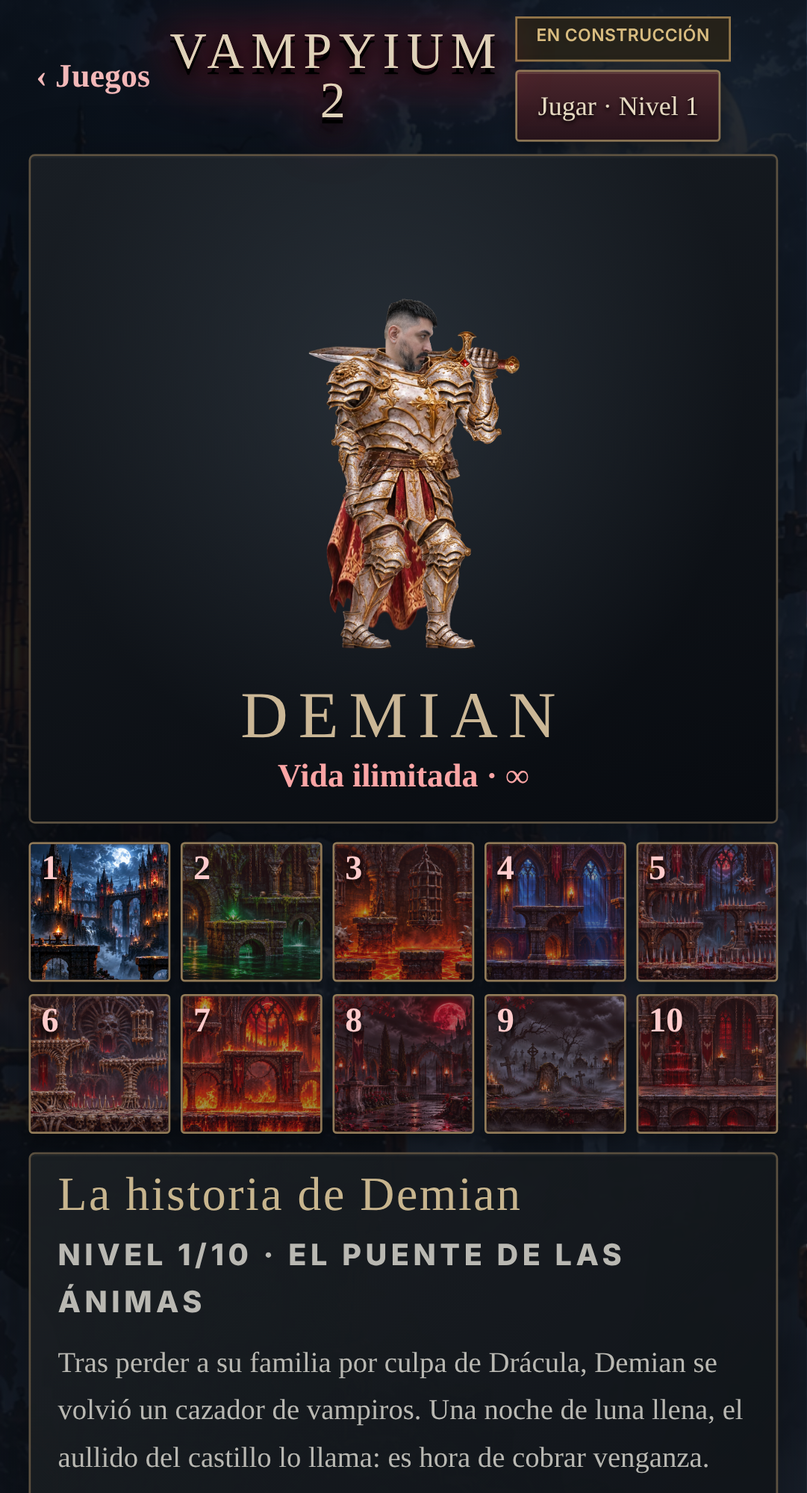
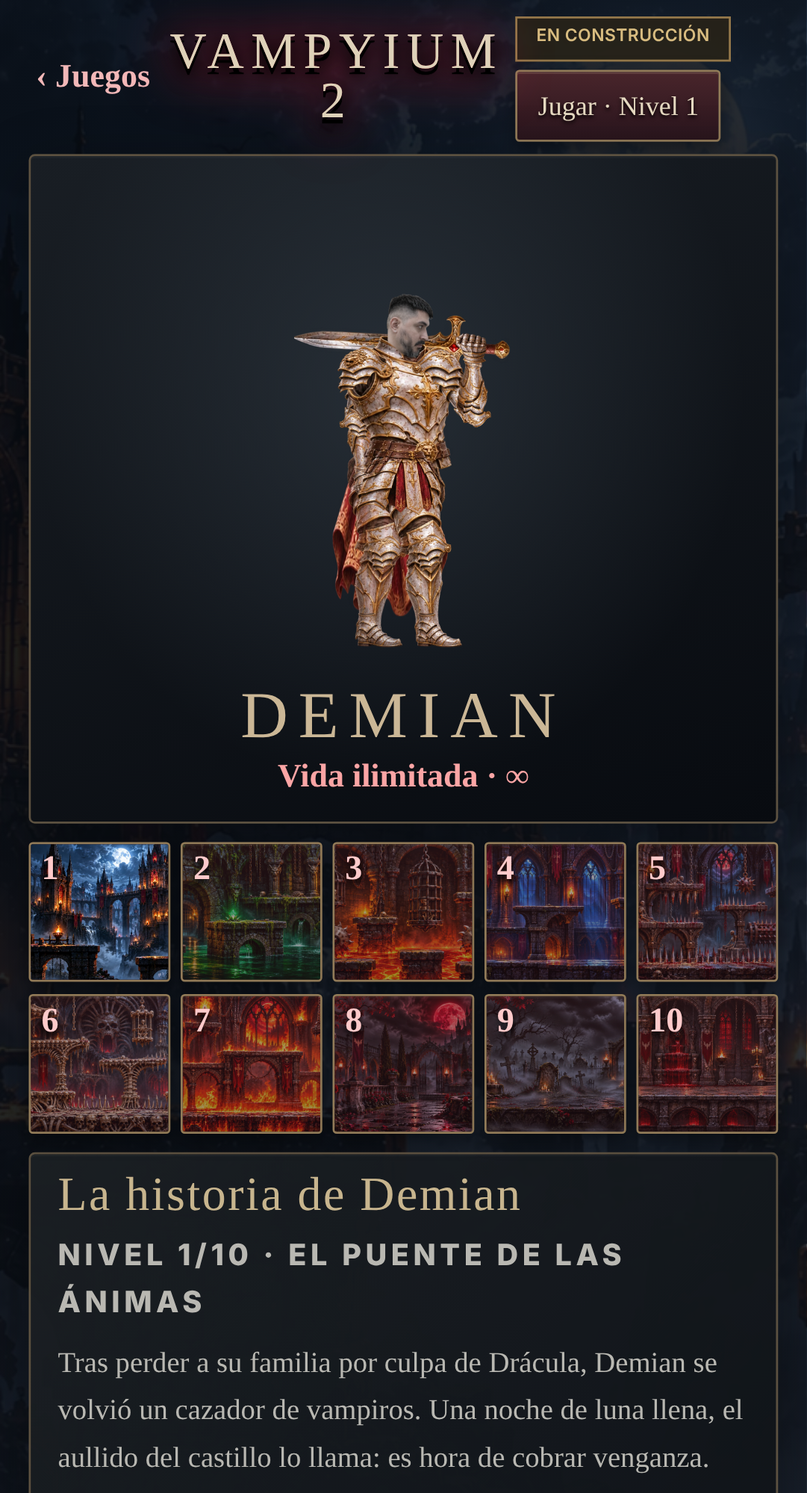
Vampyium 2: Demian con proporciones de vampiro e impulso propio en cada ataque
- Demian: mismas proporciones y altura que el vampiro común; cabeza más chica y desaturada
- Todos parados con las piernas extendidas; carga y golpe con impulso según el ataque, sin saltos
- Gigante: dos brazos arriba y golpe hacia abajo
- Mago: báculo quieto, apunta a Demian y la bola sale de la mano
- Martillo: agarrado con las dos manos y golpe hasta el piso
- Guerrero: escudo fijo contra el cuerpo

Claude-Session: https://claude.ai/code/session_01WPvz5PaYJXGqapsEakQuyK

Changed region(s): [[0.3663, 0.1861, 0.6411, 0.4342]]

diff --git a/src/features/games/vampyium2Sprites.ts b/src/features/games/vampyium2Sprites.ts
@@ -147,9 +147,9 @@ function limb(ctx: CanvasRenderingContext2D, id: number, start: Pt, end: Pt, wid
 }
 type WeaponPainter = (hand: Pt, angle: number) => void;
 // The photo head (crown to neck stub), a little larger than the old painted head but in proportion with the body.
-export const DEMIAN_FACE = { h: .41, w: .41 * 380 / 535 };
+export const DEMIAN_FACE = { h: .35, w: .35 * 380 / 535 };
 // Demian is drawn as tall as a normal vampire (the vampires' art is 12% bigger than the hunter's).
-export const DEMIAN_SCALE = 1.07;
+export const DEMIAN_SCALE = 1.095;
 
 // Input-driven articulated poses keep hands, weapon and shoulder plates attached throughout each action.
 export function drawRealisticHunter(ctx: CanvasRenderingContext2D, p: Player, g: Game, pose: Pose, t: number, paintWeapon: WeaponPainter) {
@@ -162,10 +162,10 @@ export function drawRealisticHunter(ctx: CanvasRenderingContext2D, p: Player, g:
   if (p.special?.kind === 'dash') dashTrail(ctx, p.special.t / .24);
   const walkProfile = p.onGround && Math.abs(p.vx) > .15 && p.attackT < 0 && !p.special && !(p.jumpPrep && p.jumpPrep > 0);
   const profile = walkProfile ? Math.min(1, Math.abs(p.vx) / 1.4) : 0;
-  const hipSpread = .09 - profile * .055;
-  const hip: Pt = [pose.lean * .08 + (pose.hipOffset?.[0] ?? 0), -.92 + pose.bob * (walkProfile ? 1 : .45) + pose.crouch * .3 + (pose.hipOffset?.[1] ?? 0) + (p.landT > 0 ? p.landT * .32 : 0)];
-  const neck: Pt = [hip[0] + Math.sin(pose.lean) * .61, hip[1] - Math.cos(pose.lean) * .61];
-  const shoulders: Pt[] = [-1, 1].map(side => { const x = side * (.25 - profile * .19); return [neck[0] + x * Math.cos(pose.lean) - .09 * Math.sin(pose.lean),
+  const hipSpread = .075 - profile * .045;
+  const hip: Pt = [pose.lean * .08 + (pose.hipOffset?.[0] ?? 0), -.965 + pose.bob * (walkProfile ? 1 : .45) + pose.crouch * .3 + (pose.hipOffset?.[1] ?? 0) + (p.landT > 0 ? p.landT * .32 : 0)];
+  const neck: Pt = [hip[0] + Math.sin(pose.lean) * .62, hip[1] - Math.cos(pose.lean) * .62];
+  const shoulders: Pt[] = [-1, 1].map(side => { const x = side * (.2 - profile * .15); return [neck[0] + x * Math.cos(pose.lean) - .09 * Math.sin(pose.lean),
     neck[1] + x * Math.sin(pose.lean) + .09 * Math.cos(pose.lean)]; });
   const cycle = humanWalk(p.walkT * 7 / 2.4, Math.abs(p.vx), .88 * VAMP_VISUAL_SCALE, true);
   const feet: Pt[] = [], knees: Pt[] = [];
@@ -187,7 +187,7 @@ export function drawRealisticHunter(ctx: CanvasRenderingContext2D, p: Player, g:
   if (p.onGround && (Math.abs(p.vx) < .15 || (p.jumpPrep ?? 0) > 0) && p.attackT < 0 && !p.special) {
     for (let i = 0; i < 2; i++) {
       const origin: Pt = [hip[0] + (i ? .09 : -.09), hip[1] + .03];
-      feet[i] = [hip[0] + (i ? .40 : -.35), -.04];
+      feet[i] = [hip[0] + (i ? .17 : -.15), -.04]; // standing: legs straight under the hips
       const [angle] = legAngles(origin, feet[i], .46, .45);
       knees[i] = add(origin, angle, .46);
     }
@@ -209,28 +209,28 @@ export function drawRealisticHunter(ctx: CanvasRenderingContext2D, p: Player, g:
   const wind = Math.min(.25, Math.abs(p.vx) * .025) + (p.onGround ? 0 : .12);
   ctx.save(); ctx.translate(neck[0] - .08, neck[1] + .025); ctx.rotate(.03 + wind + Math.sin(rt * 5) * .025);
   // The upper gathering is at 45% of this cutout, attached at the collar/upper back.
-  drawAsset(ctx, 'hunter', 10, -(.7 + wind) * .45, -.035, .7 + wind, 1.48); ctx.restore();
+  drawAsset(ctx, 'hunter', 10, -(.62 + wind) * .45, -.035, .62 + wind, 1.45); ctx.restore();
   const leg = (i: number) => {
     ctx.save(); if (!i) ctx.globalAlpha *= .83;
-    limb(ctx, 6, [hip[0] + (i ? hipSpread : -hipSpread), hip[1]], knees[i], .25);
-    limb(ctx, 7, knees[i], feet[i], .205);
+    limb(ctx, 6, [hip[0] + (i ? hipSpread : -hipSpread), hip[1]], knees[i], .215);
+    limb(ctx, 7, knees[i], feet[i], .18);
     const bootAngle = moving && !pose.feet ? cycle.fa[i] : pose.feet || p.onGround && Math.abs(p.vx) < .15 && p.attackT < 0 ? 0 : -(pose.legs[i][0] - pose.legs[i][1]) * .3;
     ctx.save(); ctx.translate(...feet[i]); ctx.rotate(bootAngle);
-    drawAsset(ctx, 'hunter', 8, -.08, -.12, .27, .21); ctx.restore();
+    drawAsset(ctx, 'hunter', 8, -.07, -.105, .24, .185); ctx.restore();
     jointArmor(ctx, knees[i], [hip[0] + (i ? hipSpread : -hipSpread), hip[1]], feet[i], .2, 'gilt', [1, 0]);
     ctx.restore();
   };
   const arm = (i: number, layer: 'upper' | 'forearm' | 'all') => {
-    const [a, b] = pose.arms[i], elbow = add(shoulders[i], a, .34), hand = add(elbow, a + b, .32);
+    const [a, b] = pose.arms[i], elbow = add(shoulders[i], a, .31), hand = add(elbow, a + b, .30);
     const grip = add(hand, a + b, .035);
     ctx.save(); if (walkProfile ? cycle.arm[i] < 0 : !i) ctx.globalAlpha *= .88;
     if (layer !== 'forearm') {
-      limb(ctx, 3, shoulders[i], elbow, .245);
+      limb(ctx, 3, shoulders[i], elbow, .205);
       // Separate anatomical left/right plates: dome above, overlapping lames towards the elbow.
-      part(ctx, i ? 16 : 9, [shoulders[i][0], shoulders[i][1] + .025], .31, .29, -a * .12);
+      part(ctx, i ? 16 : 9, [shoulders[i][0], shoulders[i][1] + .025], .27, .25, -a * .12);
     }
     if (layer !== 'upper') {
-      limb(ctx, 4, elbow, hand, .20);
+      limb(ctx, 4, elbow, hand, .17);
       jointArmor(ctx, elbow, shoulders[i], hand, .16, 'gilt', [-1, 0]);
       const bladeGrip = i === 1 && ['sword', 'firesword', 'violet', 'bone'].includes(p.attackT >= 0 ? p.attackWeapon : g.weapon);
       const weaponAngle = a + b + pose.blade;
@@ -239,7 +239,7 @@ export function drawRealisticHunter(ctx: CanvasRenderingContext2D, p: Player, g:
       // The handle passes behind all curled fingers; the wrist bends independently of the blade.
       const thrustGrip = bladeGrip && Math.abs(Math.cos(Math.PI / 2 - weaponAngle)) > .8 && p.attackT >= 0;
       const handId = !i && pose.relaxedHand ? 19 : bladeGrip && !thrustGrip ? 17 : 5;
-      part(ctx, handId, grip, bladeGrip ? .175 : .15, bladeGrip ? .19 : .17,
+      part(ctx, handId, grip, bladeGrip ? .155 : .135, bladeGrip ? .17 : .15,
         bladeGrip && !thrustGrip ? Math.PI - weaponAngle : -(a + b));
     }
     ctx.restore();
@@ -249,24 +249,24 @@ export function drawRealisticHunter(ctx: CanvasRenderingContext2D, p: Player, g:
     : { back: [0], front: [1] };
   for (const side of depth.back) arm(side, 'all');
   if (pose.weaponBehind) {
-    const [a, b] = pose.arms[1], elbow = add(shoulders[1], a, .34), hand = add(elbow, a + b, .32);
+    const [a, b] = pose.arms[1], elbow = add(shoulders[1], a, .31), hand = add(elbow, a + b, .30);
     paintWeapon(add(hand, a + b, .035), a + b + pose.blade);
   }
   let torso = 1;
   if (g.weapon === 'ice') torso = 14;
   if (g.weapon === 'bone') torso = 15;
-  part(ctx, torso, [hip[0] + Math.sin(pose.lean) * .33, hip[1] - Math.cos(pose.lean) * .33], .69 - profile * .19, .73, pose.lean, ARMOR_TONE[g.weapon], profile * .28);
-  if (!walkProfile) part(ctx, 9, [shoulders[0][0], shoulders[0][1] + .025], .31, .29, -pose.arms[0][0] * .12);
+  part(ctx, torso, [hip[0] + Math.sin(pose.lean) * .33, hip[1] - Math.cos(pose.lean) * .33], .58 - profile * .15, .72, pose.lean, ARMOR_TONE[g.weapon], profile * .28);
+  if (!walkProfile) part(ctx, 9, [shoulders[0][0], shoulders[0][1] + .025], .27, .25, -pose.arms[0][0] * .12);
   leg(1);
-  part(ctx, 2, [hip[0], hip[1] + .10], .51 - profile * .12, .37, pose.lean * .4);
+  part(ctx, 2, [hip[0], hip[1] + .10], .45 - profile * .1, .35, pose.lean * .4);
   // Demian's face (photo cutout, bigger than the painted head). The neck stub tucks into the gorget.
   const headTilt = pose.head * .4;
-  const head: Pt = [neck[0] + .045, neck[1] - .17];
+  const head: Pt = [neck[0] + .04, neck[1] - .145];
   ctx.save(); ctx.translate(neck[0] + .01, neck[1] + .05); ctx.rotate(headTilt);
   if (!drawAsset(ctx, 'demian-face', 0, -DEMIAN_FACE.w * .34, -DEMIAN_FACE.h, DEMIAN_FACE.w, DEMIAN_FACE.h)) part(ctx, 0, [.025, -.2], .316, .368);
   ctx.restore();
   const helmet = g.guardHp > 0 ? 12 : g.weapon === 'holy' || g.weapon === 'cross' ? 11 : g.weapon === 'bone' ? 13 : -1;
-  if (helmet >= 0) part(ctx, helmet, [head[0] + .005, head[1] - .03], .38, .43, headTilt);
+  if (helmet >= 0) part(ctx, helmet, [head[0] + .005, head[1] - .015], .33, .375, headTilt);
   for (const side of depth.front) arm(side, 'all');
   if (p.attackT > .025 && p.attackT < .18 && ['firesword', 'violet', 'bone'].includes(p.attackWeapon)) {
     ctx.save(); ctx.globalCompositeOperation = 'lighter'; ctx.globalAlpha *= Math.sin(p.attackT / .18 * Math.PI) * .32;
@@ -351,7 +351,7 @@ function drawArticulatedEnemy(ctx: CanvasRenderingContext2D, v: Vamp, t: number)
   const torsoW = (heavy ? .65 : wolf ? .59 : .51) * (walkProfile ? .76 : 1) + breath;
   const carryKind = ['mage', 'hammer', 'warrior'].includes(v.kind);
   // Where along the weapon the fist closes (fraction from its top) and how long it is.
-  const GRIP: Record<string, { at: number; len: number }> = { mage: { at: .42, len: 1.55 }, hammer: { at: .74, len: 1.2 }, warrior: { at: .865, len: 1.15 } };
+  const GRIP: Record<string, { at: number; len: number }> = { mage: { at: .3, len: 1.55 }, hammer: { at: .74, len: 1.2 }, warrior: { at: .865, len: 1.15 } };
   const armPose = (i: number) => {
     const lateral = walkProfile ? (i ? -.045 : .045) : (i ? -1 : 1) * torsoW * .37;
     const shoulder: Pt = [neck[0] + lateral * Math.cos(lean) - .115 * Math.sin(lean),
@@ -362,30 +362,54 @@ function drawArticulatedEnemy(ctx: CanvasRenderingContext2D, v: Vamp, t: number)
     // the hammer and the sword hang low and forward from a relaxed arm, so they never cover the face.
     const stick = v.kind === 'mage';
     if (carry) { a = (stick ? .45 : .22) + g.arm[i] * .14 - prepare * .2; b = stick ? .9 : .3; }
+    else if (v.kind === 'warrior' && i === 0) { a = .35 + g.arm[i] * .05; b = 1.05; } // the shield arm, close to the chest
     else { const w = walkingArm(g, i, .31, .30, .18); a = w[0] - prepare * .35; b = w[1]; }
     if (airborne) { a = i ? .45 : -.4; b = carry && stick ? 1.1 : .4; }
     let weaponAngle = !carry ? 0 : stick ? .12 + g.arm[i] * .05 : v.kind === 'hammer' ? 2.55 : 2.25; // (0 = upright, + leans forward)
     if (action.active) {
-      const rest = Math.max(0, 1 - windup - extension);
-      if (v.state !== 'claw') { // casting: both hands forward, the staff raised in front
-        a = a * rest + (.35 + windup * 1.1 + extension * (v.state === 'zap' ? 2.2 : 1.05)) * (1 - rest);
-        b = b * rest + (.6 - extension * .25) * (1 - rest);
-        weaponAngle = Math.PI / 2 - (a + b) - .15;
+      const rest = Math.max(0, 1 - windup - extension), mix3 = (r: number, w: number, e: number) => r * rest + w * windup + e * extension;
+      const mage = v.kind === 'mage', giant = v.kind === 'giant', shieldArm = v.kind === 'warrior' && i === 0;
+      if (mage) {
+        // The staff stays still in its hand; the free hand pulls back to the chest, then points at Demian.
+        if (i === 0) { const aimA = Math.PI / 2 + (v.aim ?? 0); a = mix3(a, .55, aimA); b = mix3(b, 1.7, .06); }
+      } else if (v.state !== 'claw') { // Drácula: both arms up to call the bats or the lightning
+        a = mix3(a, .35 + 1.1, v.state === 'zap' ? 2.6 : 1.5); b = mix3(b, .6, .3);
+      } else if (shieldArm) {
+        // the shield stays fixed against the body: it does not move with the blow
+      } else if (giant) {
+        // Both arms rise straight over the head, then come down together in a double-fisted smash.
+        a = mix3(a, 2.85 - i * .12, .8 + i * .1); b = mix3(b, .35, .2);
       } else if (i === 1) {
         // An overhead blow, as in fighting games: the arm rises in FRONT up over the head with the elbow bent (the
         // weapon hangs behind the shoulder), then chops down and forward; the weapon sweeps over the top in one arc.
-        const up = carry ? 2.75 : 2.5, hit = carry ? 1.05 : 1.4;
-        a = a * rest + up * windup + hit * extension;
-        b = b * rest + (carry ? 1.85 : .9) * windup + (carry ? .2 : .1) * extension;
-        const wUp = v.kind === 'warrior' ? -1.9 : -2.35, wHit = v.kind === 'hammer' ? 1.75 : 1.6;
-        weaponAngle = weaponAngle * rest + wUp * windup + wHit * extension;
-      } else { // the free arm balances the blow
-        a = a * rest + (-.45) * windup + .55 * extension;
-        b = b * rest + .7 * windup + .35 * extension;
+        const hammer = v.kind === 'hammer';
+        a = mix3(a, carry ? 2.75 : 2.5, hammer ? .8 : carry ? 1.05 : 1.4);
+        b = mix3(b, carry ? 1.85 : .9, hammer ? .12 : carry ? .2 : .1);
+        weaponAngle = mix3(weaponAngle, v.kind === 'warrior' ? -1.9 : -2.35, hammer ? 2.45 : 1.6); // the hammer ends on the floor
+      } else if (v.kind !== 'hammer') { // the free arm balances the blow (the hammer's is solved below: both hands on the handle)
+        a = mix3(a, -.45, .9); b = mix3(b, .7, .3);
       }
     }
     const elbow = add(shoulder, a, .31), hand = add(elbow, a + b, .30);
     return { shoulder, elbow, hand, a, b, carry, weaponAngle };
+  };
+  // Two-bone IK for an arm (elbow bends down/back): the angles that put the hand on `target`.
+  const armIK = (shoulder: Pt, target: Pt): [number, number] => {
+    const dx = target[0] - shoulder[0], dy = target[1] - shoulder[1], d = Math.max(.02, Math.min(Math.hypot(dx, dy), .609));
+    const base = Math.atan2(dx, dy), al = Math.acos(Math.max(-1, Math.min(1, (.31 * .31 + d * d - .3 * .3) / (2 * .31 * d))));
+    const ga = Math.acos(Math.max(-1, Math.min(1, (.31 * .31 + .3 * .3 - d * d) / (2 * .31 * .3))));
+    return [base - al, Math.PI - ga];
+  };
+  const poseOf = (i: number) => {
+    const pose = armPose(i);
+    if (v.kind !== 'hammer' || i !== 0 || !action.active) return pose;
+    // The giant hammer is gripped with BOTH hands: the second fist closes lower on the handle.
+    const lead = armPose(1), up: Pt = [Math.sin(lead.weaponAngle), -Math.cos(lead.weaponAngle)];
+    const target: Pt = [lead.hand[0] - up[0] * .2, lead.hand[1] - up[1] * .2];
+    const [ia, ib] = armIK(pose.shoulder, target), k = Math.min(1, (windup + extension) * 2.5);
+    const a = pose.a + (ia - pose.a) * k, b = pose.b + (ib - pose.b) * k;
+    const elbow = add(pose.shoulder, a, .31);
+    return { ...pose, a, b, elbow, hand: add(elbow, a + b, .30) };
   };
   const far = (i: number) => walkProfile ? g.arm[i] < 0 : i === 0;
   const weapon = (pose: ReturnType<typeof armPose>) => {
@@ -400,7 +424,7 @@ function drawArticulatedEnemy(ctx: CanvasRenderingContext2D, v: Vamp, t: number)
     ctx.drawImage(v2, -w * .42, -h * .32, w, h); ctx.restore();
   };
   const arm = (i: number) => {
-    const pose = armPose(i), { shoulder, elbow, hand, a, b, carry } = pose;
+    const pose = poseOf(i), { shoulder, elbow, hand, a, b, carry } = pose;
     ctx.save(); if (far(i)) ctx.globalAlpha *= .9;
     bone(2, shoulder, elbow, heavy ? .25 : .19);
     pauldron(shoulder, a, !walkProfile && i === 0);
@@ -409,15 +433,23 @@ function drawArticulatedEnemy(ctx: CanvasRenderingContext2D, v: Vamp, t: number)
     jointArmor(ctx, elbow, shoulder, hand, heavy ? .19 : .16, 'iron', [-1, 0]);
     ctx.restore();
   };
-  const depth = walkProfile ? walkingDepth(g) : { back: [0], front: [1] };
+  // Both fists on the hammer: the second arm crosses in front of the chest to reach the handle.
+  const depth = walkProfile ? walkingDepth(g) : v.kind === 'hammer' && action.active ? { back: [], front: [0, 1] } : { back: [0], front: [1] };
   leg(0); for (const side of depth.back) arm(side); leg(1);
   paint(1, [hip[0] + Math.sin(lean) * .30, hip[1] - Math.cos(lean) * .28], torsoW, .73, lean, walkProfile ? .24 : 0);
   if (v.kind === 'warrior') { // the shield is strapped to the far (left) forearm and covers the chest from the front
-    const sp = armPose(0); paint(8, [sp.hand[0] + .1, sp.hand[1] - .1], .42, .62, lean * .5);
+    const sp = armPose(0); paint(8, [sp.hand[0] + .06, sp.hand[1] - .06], .42, .62, lean * .5);
   }
   if (!drawEnemyHead(ctx, v.kind, [neck[0] + .02, neck[1]], -lean * .25 + g.sway * .008))
     paint(0, [neck[0] + .045, neck[1] - .14], wolf ? .39 : heavy ? .34 : .30, wolf ? .34 : .35, -lean * .25);
   for (const side of depth.front) arm(side);
+  if (v.kind === 'mage' && action.active && extension > .05) { // the power gathers in the pointing hand
+    const h = poseOf(0).hand, r = .16 + extension * .18;
+    ctx.save(); ctx.globalCompositeOperation = 'lighter';
+    const glow = ctx.createRadialGradient(h[0], h[1], 0, h[0], h[1], r);
+    glow.addColorStop(0, `rgba(255,220,200,${.9 * extension})`); glow.addColorStop(.35, `rgba(255,60,50,${.7 * extension})`); glow.addColorStop(1, 'rgba(160,0,20,0)');
+    ctx.fillStyle = glow; ctx.beginPath(); ctx.arc(h[0], h[1], r, 0, Math.PI * 2); ctx.fill(); ctx.restore();
+  }
   ctx.restore(); return true;
 }
 // A silver sweep around the waist while Demian turns 360°, so the turn reads without squashing him.

diff --git a/src/features/games/vampyium2Motion.ts b/src/features/games/vampyium2Motion.ts
@@ -21,17 +21,30 @@ export function vampireMotion(v: Vamp, modelScale: number) {
   return { cycle, prepare, airborne: !v.onGround };
 }
 
+// How each vampire loads and delivers its attack (lean back/forward, crouch while loading/striking, hip shift, stance).
+export const ATTACK_STYLE: Partial<Record<Vamp['kind'], { back: number; lunge: number; load: number; drive: number; shift: number; front: number; rear: number }>> = {
+  walker: { back: .16, lunge: .30, load: .06, drive: .10, shift: .16, front: .34, rear: .26 },
+  dracula: { back: .14, lunge: .28, load: .05, drive: .09, shift: .15, front: .32, rear: .25 },
+  wolf: { back: .18, lunge: .36, load: .12, drive: .12, shift: .2, front: .38, rear: .28 },
+  giant: { back: .22, lunge: .34, load: -.02, drive: .2, shift: .12, front: .3, rear: .3 }, // rises with both arms up, then drops into the smash
+  hammer: { back: .2, lunge: .42, load: .04, drive: .26, shift: .14, front: .36, rear: .32 },
+  warrior: { back: .12, lunge: .3, load: .07, drive: .1, shift: .17, front: .36, rear: .26 },
+  mage: { back: .04, lunge: .1, load: .03, drive: .03, shift: .06, front: .22, rear: .2 }, // stands firm and points
+};
 // A separate ankle and boot keep the supporting sole fixed while the knee and heel move.
 export const VAMP_BOOT = { left: -.09, right: .21, bottom: .09, top: -.045, width: .30, height: .135 };
 export function vampireRigPose(v: Vamp, modelScale: number, time: number) {
   const motion = vampireMotion(v, modelScale), g = motion.cycle;
   const action = vampireAttackMotion(v), { windup, extension } = action;
   const breath = Math.sin(time * 2.6 + v.id * .7) * .004;
-  const weightShift = -windup * .09 + extension * .16;
-  const crouch = motion.prepare * .15 + (v.landT ?? 0) / .14 * .10 + windup * .12 + extension * .08;
+  // Each attack takes its own impulse: weight back and down while loading, then forward into the blow.
+  const st = ATTACK_STYLE[v.kind] ?? ATTACK_STYLE.walker!;
+  const engaged = action.active ? ease(Math.min(1, (windup + extension) * 1.6)) : 0;
+  const weightShift = -windup * st.shift * .55 + extension * st.shift;
+  const crouch = motion.prepare * .15 + (v.landT ?? 0) / .14 * .10 + windup * st.load + extension * st.drive;
   const hip: Pt = [g.sway * .009 + weightShift, -.965 + g.bob + crouch + breath];
   const lean = (v.kind === 'wolf' ? .12 : .025) + motion.prepare * .12
-    + (motion.airborne ? .08 : 0) - windup * .14 + extension * .23 + g.sway * .012;
+    + (motion.airborne ? .08 : 0) - windup * st.back + extension * st.lunge + g.sway * .012;
   const neck: Pt = [hip[0] + Math.sin(lean) * .62, hip[1] - Math.cos(lean) * .62];
   const legs = [0, 1].map(i => {
     const origin: Pt = [hip[0] + (i ? .055 : -.055), hip[1]];
@@ -40,8 +53,10 @@ export function vampireRigPose(v: Vamp, modelScale: number, time: number) {
       + VAMP_BOOT.bottom * Math.cos(footAngle);
     const groundPivot = footAngle >= 0 ? VAMP_BOOT.right : VAMP_BOOT.left;
     const rollOffset = groundPivot - (groundPivot * Math.cos(footAngle) - VAMP_BOOT.bottom * Math.sin(footAngle));
-    const x = (action.active ? (i ? .27 : -.25)
-      : (i ? .055 : -.055) + (i ? .13 : -.13) * (1 - g.k) + g.dx[i]) + rollOffset;
+    // Standing: legs straight under the hips. Attacking: the stance opens smoothly (no pop), front foot forward.
+    const walkX = (i ? .055 : -.055) + (i ? .085 : -.085) * (1 - g.k) + g.dx[i];
+    const total = windup + extension, attackX = i ? (windup * .16 + extension * st.front) / Math.max(.001, total) : -st.rear;
+    const x = walkX + (attackX - walkX) * engaged + rollOffset;
     const ankle: Pt = motion.airborne
       ? [origin[0] + (i ? .24 : -.18), -.19 - (v.vy > 0 ? .19 : .08) * (i ? 1 : .6)]
       : [x, -soleBottom - g.lift[i]];

diff --git a/src/features/games/vampyium2.test.ts b/src/features/games/vampyium2.test.ts
@@ -1,5 +1,5 @@
 import { describe, expect, it } from 'vitest';
-import { AMMO_PICKUP, GUARD_HP, FREEZE_T, HOLY_TARGETS, DAMAGE, DOOR, FALL_DMG, GAPS, GOAL, GROUND_Y, LEVELS, LEVEL_COUNT, MAX_HP, STRENGTH, SURFACES, VAMP_KINDS, hitVamp, makeVamp, rosterOf, type VampKind, POWER_MAX, START_AMMO, WEAPON_DMG, WEAPON_LEVEL, WEAPONS, GARLIC_R, PISTOL_RANGE, MAX_AMMO, TRAPS, castHoly, chooseWeapon, type Weapon, newGame, pressAttack, menuMove, step, takeEvents, trapState, type Game, type Input, type Vamp, CHAPTERS, hitObject, noteTap, triggerSpecial, SPECIAL_KEYS, DASH_PIERCE } from './vampyium2';
+import { AMMO_PICKUP, GUARD_HP, FREEZE_T, HOLY_TARGETS, DAMAGE, DOOR, FALL_DMG, GAPS, GOAL, GROUND_Y, LEVELS, LEVEL_COUNT, MAX_HP, STRENGTH, SURFACES, VAMP_KINDS, hitVamp, makeVamp, rosterOf, type VampKind, POWER_MAX, START_AMMO, WEAPON_DMG, WEAPON_LEVEL, WEAPONS, GARLIC_R, PISTOL_RANGE, MAX_AMMO, TRAPS, castHoly, chooseWeapon, type Weapon, newGame, pressAttack, menuMove, step, takeEvents, trapState, type Game, type Input, type Vamp, CHAPTERS, hitObject, noteTap, triggerSpecial, SPECIAL_KEYS, DASH_PIERCE, MAGE_HAND, BODY } from './vampyium2';
 
 const idle = (): Input => ({ left: false, right: false, up: false, down: false });
 const run = (g: Game, seconds: number, input: Input = idle()) => { for (let t = 0; t < seconds; t += 1 / 60) step(g, input, 1 / 60); };
@@ -706,6 +706,16 @@ describe('Vampyium2: los ataques especiales de Demian', () => {
     run(g, 1.2);
     expect(takeEvents(g).some(e => e.type === 'hurt')).toBe(true);
     expect(g.drops.length).toBeGreaterThan(before + 10);
+  });
+  it('el mago apunta a Demian y la bola sale de la mano que apunta', () => {
+    const g = quiet(); const p = g.player;
+    const m = makeVamp(g, 'mage', { x: p.x + 6, y: GROUND_Y, onGround: true, surface: SURFACES.find(s => s.ground && s.x1 <= p.x + 6 && s.x2 >= p.x + 6) ?? null, face: -1, cool: 9, speed: 0, state: 'cast', t: 0 });
+    g.vamps.push(m); run(g, 0.6);
+    const orb = g.shots.find(s => s.kind === 'orb'); expect(orb).toBeTruthy();
+    const k = MAGE_HAND.k * BODY.mage.k;
+    expect(m.aim).toBeLessThan(0); // Demian está más abajo: apunta hacia abajo
+    expect(orb!.x).toBeLessThan(m.x - MAGE_HAND.sx * k); // adelante, hacia Demian
+    expect(orb!.vx).toBeLessThan(0);
   });
   it('sin combinación, Espacio es el tajo de siempre', () => {
     const g = quiet(); pressAttack(g);

diff --git a/src/features/games/vampyium2.ts b/src/features/games/vampyium2.ts
@@ -622,6 +622,8 @@ function spawn(g: Game) {
 }
 
 // El ataque de cada uno de los que caminan: alcance, cuándo pega, cuánto dura y cuánto espera después.
+// La mano del mago que apunta (en unidades del dibujo: hombro y largo del brazo; k = escala del dibujo).
+export const MAGE_HAND = { k: 0.88 * 2.25, sx: 0.19, sy: 1.47, reach: 0.62 };
 export const ATTACK: Partial<Record<VampKind, { reach: number; at: number; dur: number; rest: number }>> = {
   walker: { reach: 1.0, at: 0.36, dur: 0.7, rest: 0.6 }, giant: { reach: 1.6, at: 0.55, dur: 1.0, rest: 1.0 }, mage: { reach: 1.2, at: 0.36, dur: 0.7, rest: 1.0 },
   hammer: { reach: 2.0, at: 0.72, dur: 1.2, rest: 1.1 }, warrior: { reach: 1.75, at: 0.38, dur: 0.75, rest: 0.8 }, wolf: { reach: 1.5, at: 0.22, dur: 0.5, rest: 0.6 },
@@ -769,9 +771,12 @@ function updateWalker(g: Game, v: Vamp, dt: number) {
     if (v.t >= atk.dur) { v.state = 'walk'; v.cool = atk.rest + r() * 0.5; }
   } else if (v.state === 'cast') { // el mago levanta el báculo y tira una bola de fuego; Drácula larga murciélagos
     v.vx *= Math.max(0, 1 - dt * 10); v.t += dt; v.face = dx >= 0 ? 1 : -1;
+    // El mago deja el báculo quieto y APUNTA con la otra mano a Demian: la bola sale de esa mano.
+    const k = MAGE_HAND.k * BODY.mage.k;
+    if (v.kind === 'mage') v.aim = Math.max(-0.9, Math.min(0.9, Math.atan2(p.y + 1 - (v.y + MAGE_HAND.sy * k), Math.abs(dx) || 0.01)));
     if (v.t >= 0.55 && !v.hit) {
       v.hit = true;
-      if (v.kind === 'mage') { shoot(g, v.x + v.face * 0.9, v.y + 2.2, p.x, p.y + 1, 8.5, 'orb', DAMAGE.mage, 3); }
+      if (v.kind === 'mage') { const a = v.aim ?? 0; shoot(g, v.x + v.face * (MAGE_HAND.sx + MAGE_HAND.reach * Math.cos(a)) * k, v.y + (MAGE_HAND.sy + MAGE_HAND.reach * Math.sin(a)) * k, p.x, p.y + 1, 8.5, 'orb', DAMAGE.mage, 3); }
       else { for (const k of [-0.5, -0.25, 0, 0.25, 0.5]) shoot(g, v.x + v.face * 0.7, v.y + 2.1, p.x, p.y + 1, 6 + Math.abs(k) * 2, 'bat', DAMAGE.dracula, 3.4, k); emit(g, { type: 'bats' }); }
     }
     if (v.t >= 0.95) { v.state = 'walk'; v.cool = (v.kind === 'mage' ? 2.4 : 1) + r() * 0.8; }

diff --git a/src/features/games/vampyium2Demian.ts b/src/features/games/vampyium2Demian.ts
@@ -19,11 +19,11 @@ export function demianSwordPose(p: Player, time: number): Pose {
   const rightA = mix(frontA, carryArm[0], lowered), rightB = mix(frontB, carryArm[1], lowered);
   // Unwrap the angle through the overhead arc, avoiding a sweep through the torso.
   const swordAngle = mix(mix(-Math.PI / 2 - .06, -Math.PI * 1.5, extension), .75, lowered);
-  const feet: [Pt, Pt] = [[mix(-.23, -.48, extension), -.06], [mix(.23, .44, extension), -.06]];
+  const feet: [Pt, Pt] = [[mix(-.15, -.48, extension), -.06], [mix(.17, .44, extension), -.06]]; // standing straight, then the lunge
   return {
     bob: running && !active ? cycle.bob : breath,
     lean: mix(.015 + (running ? cycle.sway * .012 : 0), .24, extension), crouch: 0, head: -.08 * extension,
-    hipOffset: [extension * .13, mix(-.015, .12, extension)],
+    hipOffset: [extension * .13, mix(0, .12, extension)],
     feet: running || !p.onGround ? undefined : feet,
     weaponBehind: extension < .35 && !lowered,
     relaxedHand: !active,

diff --git a/docs/vampyium2-novena-ronda.md b/docs/vampyium2-novena-ronda.md
@@ -1,0 +1,9 @@
+# Novena corrección — proporciones de Demian e impulso de cada ataque
+
+- **Demian** con las proporciones del vampiro común: brazos y hombros del mismo largo y ancho, torso, faldar, muslos, canillas, botas y manos más finos. Cabeza más chica (0,35) y cara más desaturada. Misma altura que el vampiro común.
+- **Parados**: todos (Demian y vampiros) arrancan con las piernas extendidas bajo la cadera.
+- **Impulso según el ataque**: carga con el peso atrás y abajo, golpe con el peso adelante, y la postura se abre y se cierra de forma continua (sin saltos). Cada vampiro tiene su estilo (el martillo y el gigante se hunden más; el mago casi no se mueve).
+- **Gigante**: levanta los dos brazos sobre la cabeza y golpea hacia abajo con los dos puños.
+- **Mago**: el báculo queda quieto; con la otra mano apunta a Demian (sube o baja el brazo según dónde esté) y la bola de fuego sale de esa mano, con un brillo rojo.
+- **Martillo**: agarra el martillo con las dos manos al atacar (la segunda mano se resuelve con cinemática inversa sobre el mango) y lo baja hasta el piso.
+- **Guerrero**: el escudo queda fijo contra el cuerpo durante el ataque.
